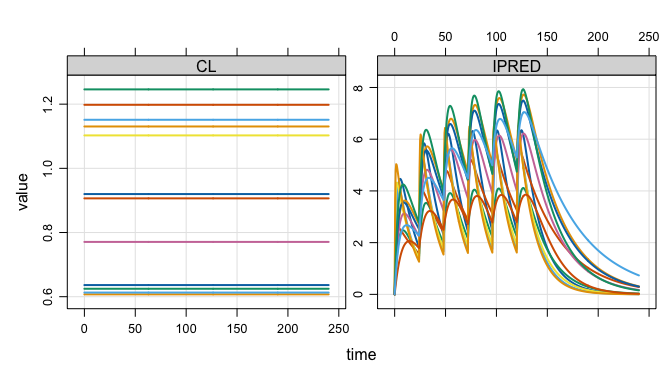
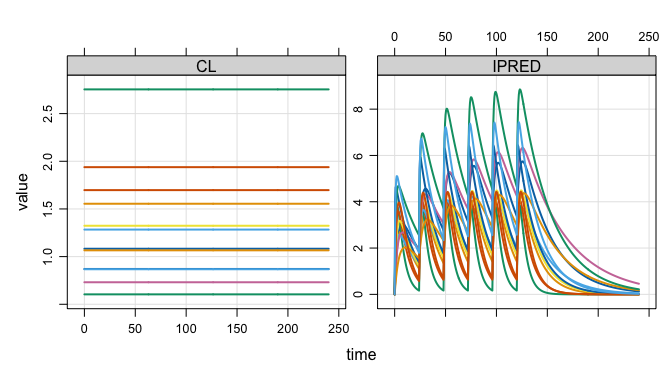
readme

diff --git a/README.md b/README.md
@@ -48,15 +48,15 @@ out
 . Model: popex
 . Dim  : 1.4M 4
 . Files: 1 [11.9 Mb]
-.     ID time        CL    IPRED
-. 1:   1  0.0 0.9198294 0.000000
-. 2:   1  0.0 0.9198294 0.000000
-. 3:   1  0.5 0.9198294 1.171837
-. 4:   1  1.0 0.9198294 2.080260
-. 5:   1  1.5 0.9198294 2.778163
-. 6:   1  2.0 0.9198294 3.307970
-. 7:   1  2.5 0.9198294 3.703703
-. 8:   1  3.0 0.9198294 3.992643
+.     ID time        CL     IPRED
+. 1:   1  0.0 0.8703157 0.0000000
+. 2:   1  0.0 0.8703157 0.0000000
+. 3:   1  0.5 0.8703157 0.6052836
+. 4:   1  1.0 0.8703157 1.1065989
+. 5:   1  1.5 0.8703157 1.5202097
+. 6:   1  2.0 0.8703157 1.8598600
+. 7:   1  2.5 0.8703157 2.1371641
+. 8:   1  3.0 0.8703157 2.3619364
 ```
 
 ## Very lightweight simulation output object
@@ -66,7 +66,7 @@ a pointer to the data in parquet files on your disk.
 
 ``` r
 basename(out$files)
-. [1] "mrgsims-ds-e42340c627a4.parquet"
+. [1] "mrgsims-ds-e61b7a686829.parquet"
 ```
 
 This means there is almost nothing inside the object itself
@@ -109,23 +109,23 @@ head(out)
 . # A tibble: 6 × 4
 .      ID  time    CL IPRED
 .   <dbl> <dbl> <dbl> <dbl>
-. 1     1   0   0.920  0   
-. 2     1   0   0.920  0   
-. 3     1   0.5 0.920  1.17
-. 4     1   1   0.920  2.08
-. 5     1   1.5 0.920  2.78
-. 6     1   2   0.920  3.31
+. 1     1   0   0.870 0    
+. 2     1   0   0.870 0    
+. 3     1   0.5 0.870 0.605
+. 4     1   1   0.870 1.11 
+. 5     1   1.5 0.870 1.52 
+. 6     1   2   0.870 1.86
 
 tail(out)
 . # A tibble: 6 × 4
 .      ID  time    CL IPRED
 .   <dbl> <dbl> <dbl> <dbl>
-. 1  3000  238. 0.684 0.121
-. 2  3000  238  0.684 0.119
-. 3  3000  238. 0.684 0.116
-. 4  3000  239  0.684 0.114
-. 5  3000  240. 0.684 0.112
-. 6  3000  240  0.684 0.110
+. 1  3000  238. 0.756 0.262
+. 2  3000  238  0.756 0.258
+. 3  3000  238. 0.756 0.255
+. 4  3000  239  0.756 0.251
+. 5  3000  240. 0.756 0.247
+. 6  3000  240  0.756 0.244
 
 dim(out)
 . [1] 1446000       4
@@ -139,16 +139,16 @@ as_tibble(out)
 . # A tibble: 1,446,000 × 4
 .       ID  time    CL IPRED
 .    <dbl> <dbl> <dbl> <dbl>
-.  1     1   0   0.920  0   
-.  2     1   0   0.920  0   
-.  3     1   0.5 0.920  1.17
-.  4     1   1   0.920  2.08
-.  5     1   1.5 0.920  2.78
-.  6     1   2   0.920  3.31
-.  7     1   2.5 0.920  3.70
-.  8     1   3   0.920  3.99
-.  9     1   3.5 0.920  4.20
-. 10     1   4   0.920  4.33
+.  1     1   0   0.870 0    
+.  2     1   0   0.870 0    
+.  3     1   0.5 0.870 0.605
+.  4     1   1   0.870 1.11 
+.  5     1   1.5 0.870 1.52 
+.  6     1   2   0.870 1.86 
+.  7     1   2.5 0.870 2.14 
+.  8     1   3   0.870 2.36 
+.  9     1   3.5 0.870 2.54 
+. 10     1   4   0.870 2.69 
 . # ℹ 1,445,990 more rows
 ```
 
@@ -174,22 +174,25 @@ as_duckdb_ds(out)
 . # Database: DuckDB 1.4.3 [kyleb@Darwin 24.6.0:R 4.5.2/:memory:]
 .       ID  time    CL IPRED
 .    <dbl> <dbl> <dbl> <dbl>
-.  1     1   0   0.920  0   
-.  2     1   0   0.920  0   
-.  3     1   0.5 0.920  1.17
-.  4     1   1   0.920  2.08
-.  5     1   1.5 0.920  2.78
-.  6     1   2   0.920  3.31
-.  7     1   2.5 0.920  3.70
-.  8     1   3   0.920  3.99
-.  9     1   3.5 0.920  4.20
-. 10     1   4   0.920  4.33
+.  1     1   0   0.870 0    
+.  2     1   0   0.870 0    
+.  3     1   0.5 0.870 0.605
+.  4     1   1   0.870 1.11 
+.  5     1   1.5 0.870 1.52 
+.  6     1   2   0.870 1.86 
+.  7     1   2.5 0.870 2.14 
+.  8     1   3   0.870 2.36 
+.  9     1   3.5 0.870 2.54 
+. 10     1   4   0.870 2.69 
 . # ℹ more rows
 ```
 
 ## Tidyverse-friendly
 
-We’ve integrated into the `dplyr` ecosystem as well
+We’ve integrated into the `dplyr` ecosystem as well, allowing you to
+`filter()`, `group_by()`, `mutate()`, or `select()` your way directly
+into a pipeline to summarize your simulations using the power of Apache
+Arrow.
 
 ``` r
 dd <- 
@@ -211,15 +214,15 @@ collect(dd)
 .     time  Mean
 .    <dbl> <dbl>
 .  1   0    0   
-.  2   0.5  1.11
-.  3   1    1.80
-.  4   1.5  2.26
-.  5   2    2.58
-.  6   2.5  2.79
-.  7   3    2.94
-.  8   3.5  3.04
-.  9  16.5  2.23
-. 10  17.5  2.15
+.  2   0.5  1.10
+.  3   1    1.78
+.  4   1.5  2.24
+.  5   2    2.55
+.  6   2.5  2.76
+.  7   3    2.90
+.  8   3.5  3.00
+.  9  16.5  2.18
+. 10  17.5  2.09
 . # ℹ 471 more rows
 ```
 
@@ -241,15 +244,15 @@ out2
 . Model: popex
 . Dim  : 14.5M 4
 . Files: 10 [119.1 Mb]
-.     ID time       CL    IPRED
-. 1:   1  0.0 1.249369 0.000000
-. 2:   1  0.0 1.249369 0.000000
-. 3:   1  0.5 1.249369 1.629762
-. 4:   1  1.0 1.249369 2.581764
-. 5:   1  1.5 1.249369 3.121251
-. 6:   1  2.0 1.249369 3.410071
-. 7:   1  2.5 1.249369 3.546969
-. 8:   1  3.0 1.249369 3.592181
+.     ID time       CL     IPRED
+. 1:   1  0.0 1.721133 0.0000000
+. 2:   1  0.0 1.721133 0.0000000
+. 3:   1  0.5 1.721133 0.9443053
+. 4:   1  1.0 1.721133 1.5571580
+. 5:   1  1.5 1.721133 1.9472183
+. 6:   1  2.0 1.721133 2.1877023
+. 7:   1  2.5 1.721133 2.3279391
+. 8:   1  3.0 1.721133 2.4011598
 ```
 
 ## Files on disk are automagically managed
@@ -259,11 +262,11 @@ All `arrow` files are stored in the `tempdir()` in parquet format
 ``` r
 list_temp()
 . 11 files [131.1 Mb]
-. - mrgsims-ds-e42340c627a4.parquet
-. - mrgsims-ds-e46052520435.parquet
+. - mrgsims-ds-e61b7a686829.parquet
+. - mrgsims-ds-e65815151b3e.parquet
 .    ...
-. - mrgsims-ds-e4642a8734e6.parquet
-. - mrgsims-ds-e4642ce59690.parquet
+. - mrgsims-ds-e65c371180d1.parquet
+. - mrgsims-ds-e65c5e203595.parquet
 ```
 
 This directory is eventually removed when the R session ends. Tools are
@@ -275,11 +278,11 @@ retain_temp(out2)
 
 list_temp()
 . 10 files [119.1 Mb]
-. - mrgsims-ds-e46052520435.parquet
-. - mrgsims-ds-e4605db9d125.parquet
+. - mrgsims-ds-e65815151b3e.parquet
+. - mrgsims-ds-e6581caf8e42.parquet
 .    ...
-. - mrgsims-ds-e4642a8734e6.parquet
-. - mrgsims-ds-e4642ce59690.parquet
+. - mrgsims-ds-e65c371180d1.parquet
+. - mrgsims-ds-e65c5e203595.parquet
 ```
 
 We also put a finalizer on each object so that, when it goes out of
@@ -318,8 +321,8 @@ cleaned up.
 ``` r
 gc()
 .            used  (Mb) gc trigger  (Mb) limit (Mb) max used  (Mb)
-. Ncells  1935316 103.4    3631562 194.0         NA  2899594 154.9
-. Vcells 15215755 116.1   29059439 221.8      16384 26997794 206.0
+. Ncells  1935310 103.4    3631634 194.0         NA  2916883 155.8
+. Vcells 15215822 116.1   29059616 221.8      16384 26997941 206.0
 
 list_temp()
 . 2 files [23.8 Mb]
